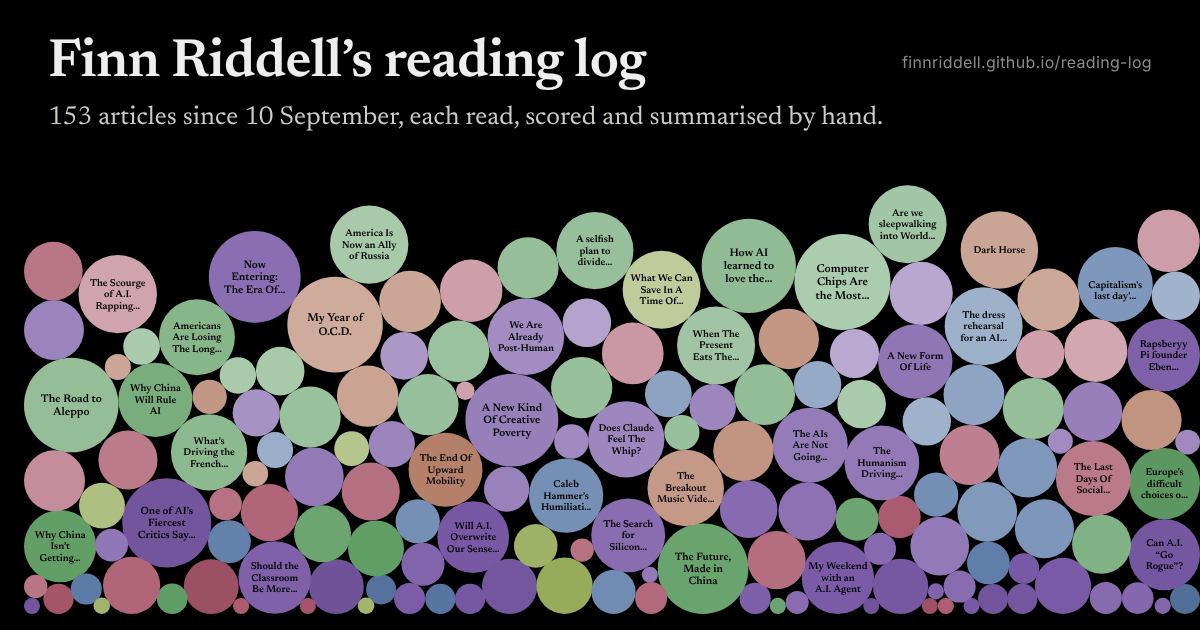
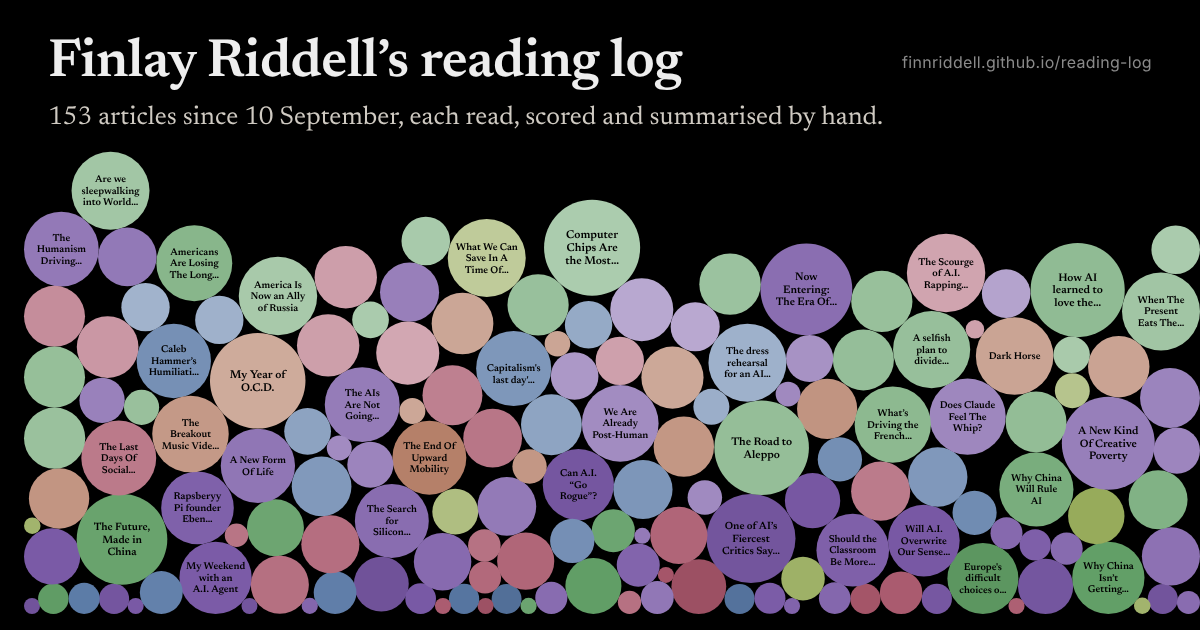
Use the name Finlay Riddell throughout; refresh preview image
Claude-Session: https://claude.ai/code/session_01W1BH1zn2Td2qHtcFeGMdCx

diff --git a/index.html b/index.html
@@ -1,15 +1,15 @@
 <!DOCTYPE html>
 <html lang="en"><head><meta charset="utf-8">
 <meta name="viewport" content="width=device-width, initial-scale=1">
-<title>Finn Riddell’s reading log</title>
+<title>Finlay Riddell’s reading log</title>
 <meta name="description" content="Every article I read from the FT, The New Yorker, The Economist, Wired, NOEMA and others, scored and summarised by hand.">
-<meta property="og:title" content="Finn Riddell’s reading log">
+<meta property="og:title" content="Finlay Riddell’s reading log">
 <meta property="og:description" content="Every article I read, scored and summarised by hand, shown as a pile of bubbles.">
 <meta property="og:type" content="website">
 <meta property="og:url" content="https://finnriddell.github.io/reading-log/">
 <meta property="og:image" content="https://finnriddell.github.io/reading-log/preview.png">
 <meta property="og:image:width" content="1200"><meta property="og:image:height" content="630">
-<meta property="og:image:alt" content="A pile of coloured bubbles, one per article read, under the title Finn Riddell’s reading log">
+<meta property="og:image:alt" content="A pile of coloured bubbles, one per article read, under the title Finlay Riddell’s reading log">
 <meta name="twitter:card" content="summary_large_image">
 <link rel="canonical" href="https://finnriddell.github.io/reading-log/">
 <!-- anonymous visit counts (GoatCounter: no cookies, no personal data) -->
@@ -86,7 +86,7 @@ li.mh{border:0;padding:22px 0 2px}li.mh h2{margin:0;font:600 24px var(--serif)}
 <p id="msg" role="status">Loading…</p>
 <section id="hero" aria-label="Pile of bubbles, one per article, newest at the top. The full list follows below."></section>
 <main id="lv"><section id="top" aria-labelledby="toph" hidden><h2 id="toph">Top reads</h2><div id="tops"></div></section><ol id="list"></ol>
-<footer class="m" style="padding:40px 0 0;font-size:13px;color:#888">© 2026 Finn Riddell. All rights reserved. The reading notes, scores and takeaways are my own writing. The site’s code may be viewed but not reused without permission; get in touch if you’d like to use any of it. Visits are counted anonymously with GoatCounter: no cookies and no personal data.</footer></main>
+<footer class="m" style="padding:40px 0 0;font-size:13px;color:#888">© 2026 Finlay Riddell. All rights reserved. The reading notes, scores and takeaways are my own writing. The site’s code may be viewed but not reused without permission; get in touch if you’d like to use any of it. Visits are counted anonymously with GoatCounter: no cookies and no personal data.</footer></main>
 <canvas id="c" aria-hidden="true"></canvas>
 <div id="tip" hidden></div>
 <div id="card" role="region" aria-live="polite" aria-label="Article details" hidden></div>
@@ -94,7 +94,7 @@ li.mh{border:0;padding:22px 0 2px}li.mh h2{margin:0;font:600 24px var(--serif)}
 const $=id=>document.getElementById(id),cv=$('c'),cx=cv.getContext('2d'),GUT=54,GR=34;
 const AMB='hsl(38 95% 58%)';
 // ── edit these two lines ──
-const OWNER='Finn Riddell';          // your name, as shown in the heading
+const OWNER='Finlay Riddell';          // your name, as shown in the heading
 const WRITEUP_URL='';                // link to your write-up; leave '' to hide it
 // where the articles come from: your public Apps Script address with ?format=json on the end
 const DATA_URL='https://script.google.com/macros/s/AKfycbwFF4c2gPk65yuN4HMtmnq2yDI01s-68QLDzhnQJJNKyHeRioZqllzYpaU1wLt3sL8v/exec?format=json';

diff --git a/README.md b/README.md
@@ -23,4 +23,4 @@ I designed and directed the project, set the rules, chose the design and tested 
 
 ---
 
-© 2026 Finn Riddell. All rights reserved. The reading notes, scores and takeaways are my own writing. The site's code may be viewed but not reused without permission; get in touch if you'd like to use any of it.
+© 2026 Finlay Riddell. All rights reserved. The reading notes, scores and takeaways are my own writing. The site's code may be viewed but not reused without permission; get in touch if you'd like to use any of it.
